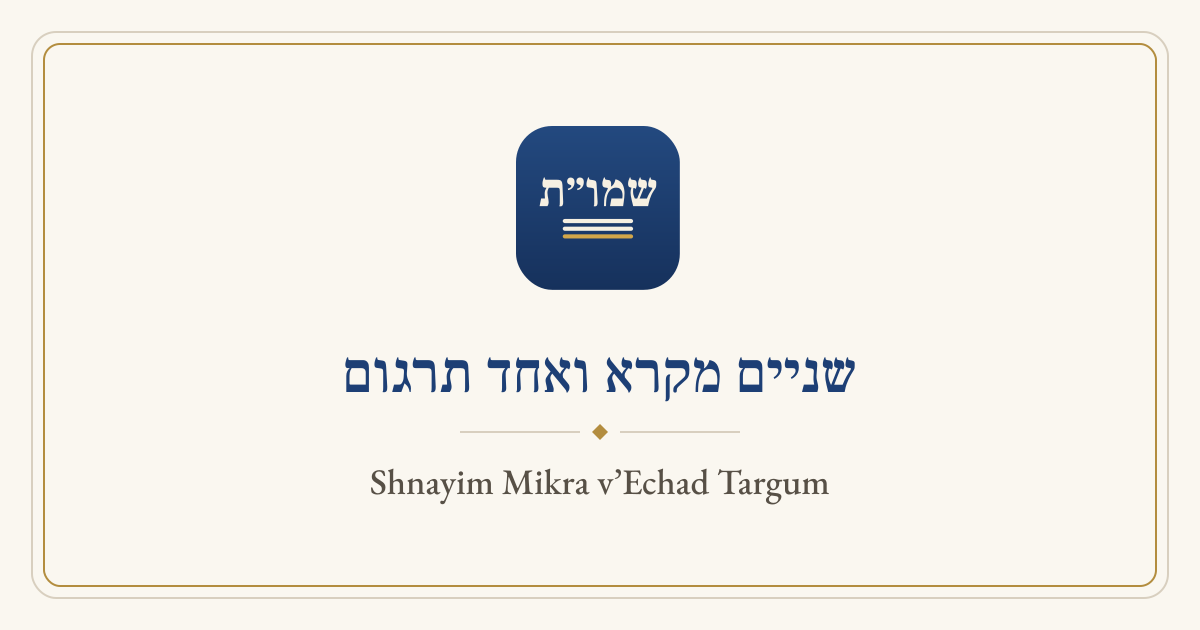
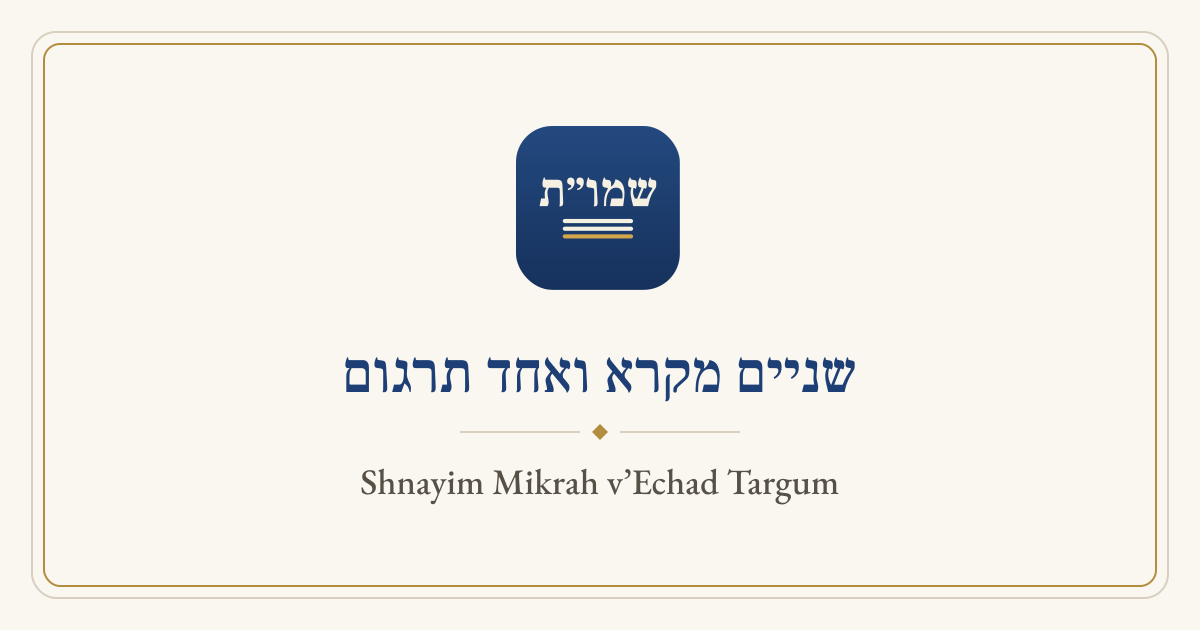
Draw the link preview with the h, and pin the Windows data folder's names
web/og.png is drawn from make_icon.py, whose title already read
Mikrah; it is now redrawn, so a shared link shows the name as the app
does. A test now holds Runner.rc's CompanyName and ProductName, which
name the folder where Windows keeps a reader's settings and progress.

Claude-Session: https://claude.ai/code/session_01FpCxE3pusCE35YFjz4NtTU

Changed region(s): [[0.2775, 0.7238, 0.7092, 0.8143]]

diff --git a/test/app/windows_package_test.dart b/test/app/windows_package_test.dart
@@ -71,6 +71,16 @@ void main() {
     expect(description, isNot(contains("'")));
   });
 
+  // path_provider_windows keeps the app's support directory, and with it
+  // shared_preferences' file (settings, progress, notes), at
+  // %APPDATA%\<CompanyName>\<ProductName>: changing either after publishing
+  // would leave every reader's local data behind.
+  test('the data folder keeps the names it was published under', () {
+    final rc = File('windows/runner/Runner.rc').readAsStringSync();
+    expect(rc, contains('VALUE "CompanyName", "Shnayim Mikrah" "\\0"'));
+    expect(rc, contains('VALUE "ProductName", "Shnayim Mikrah" "\\0"'));
+  });
+
   testWidgets('the logo is the rounded tile of app_icon.ico', (tester) async {
     expect(config['logo_path'], 'windows/msix/logo.png');
     final logo = await _pixels(tester, 'windows/msix/logo.png');
